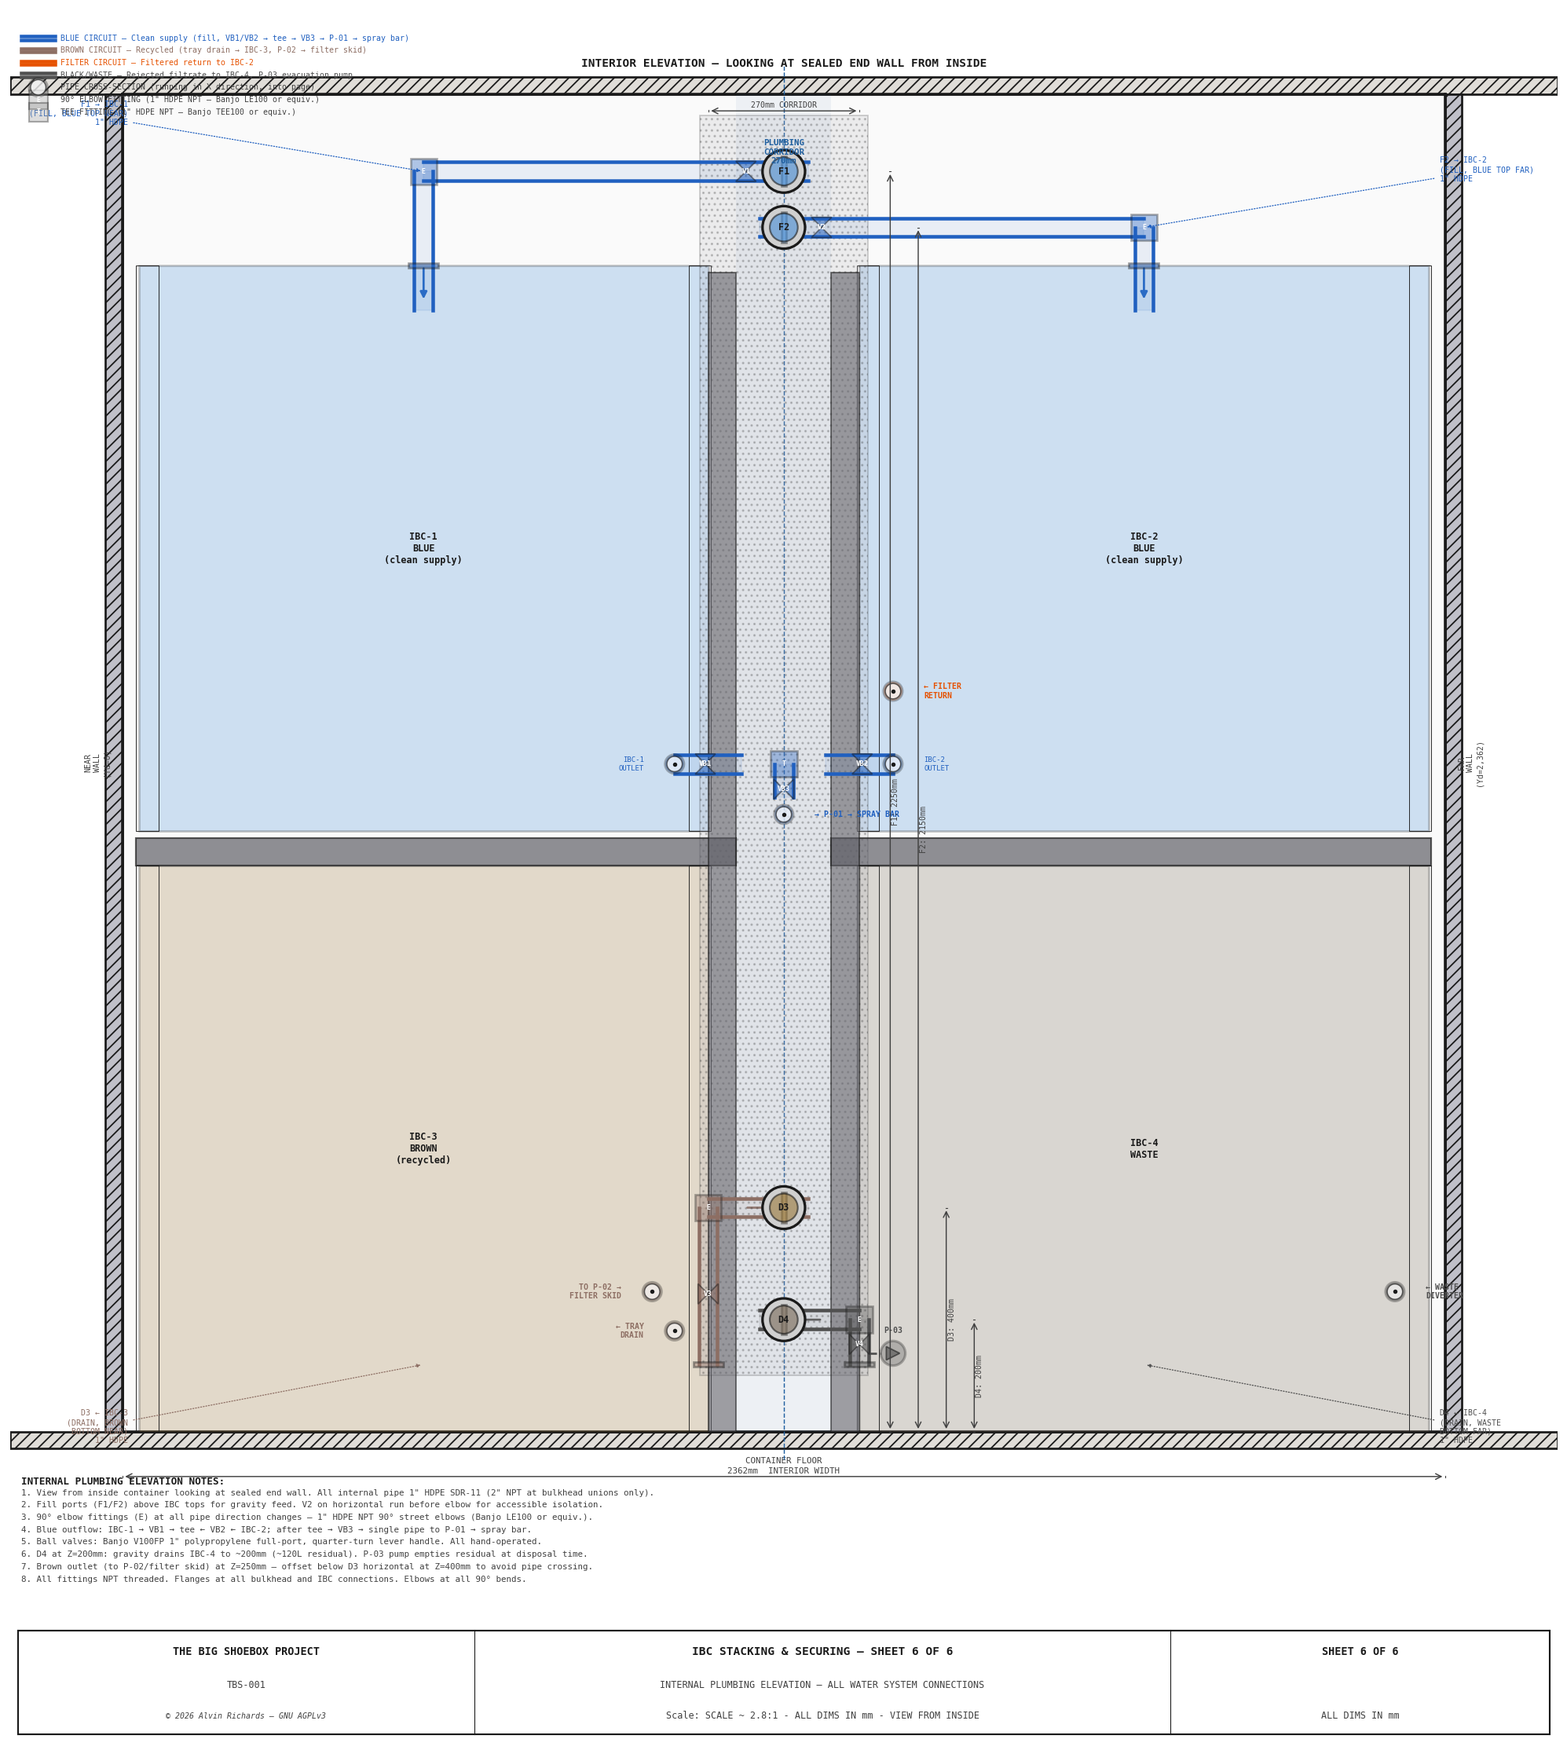
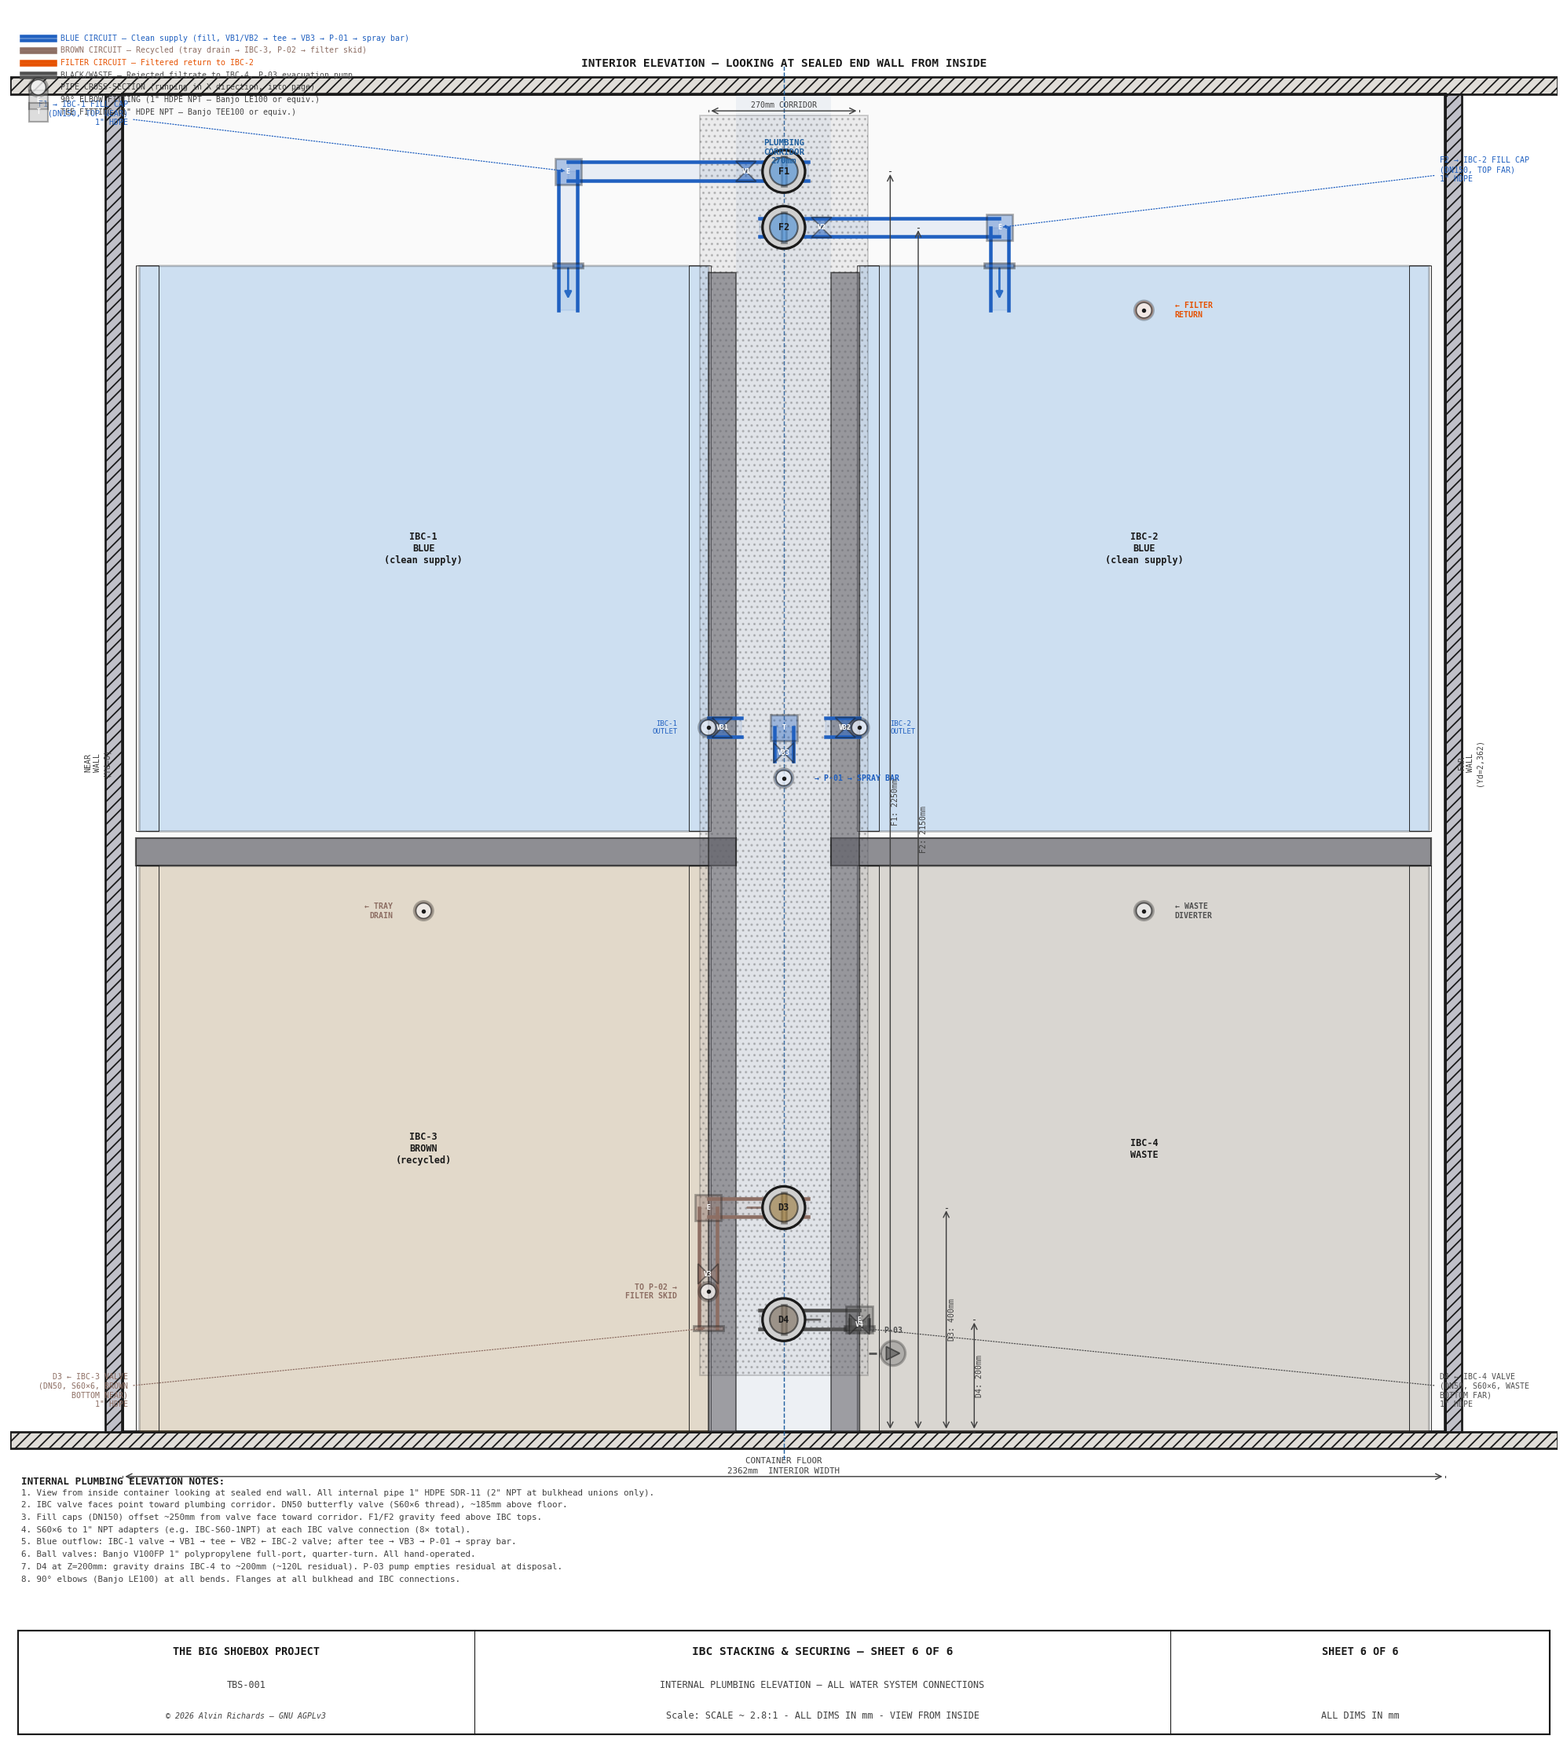
Update IBC plumbing to use actual valve/fill cap positions
Correct all pipe connection points based on real IBC tote specs:
- Fill pipes (F1/F2) drop at DN150 fill cap position (~250mm offset from
  valve face toward corridor), not at IBC center
- Drain connections at DN50 butterfly valve (S60×6 thread), ~185mm above
  floor, on corridor-facing face
- Blue outflow manifold connects at top-tier IBC drain valves
- Brown/waste inlet stubs repositioned to fill cap (top) and valve (bottom)

Add S60×6 to 1" NPT adapters (8×) to shopping list. Update valve specs
from "2" ball valve" to "DN50 butterfly valve (S60×6 thread)" throughout.
Update sheet 5/6 notes with IBC orientation and adapter requirements.

diff --git a/generate_ibc_stacking_diagram.py b/generate_ibc_stacking_diagram.py
@@ -1645,8 +1645,8 @@ def sheet5():
         "INTERNAL PLUMBING PLAN NOTES:",
         "",
         "1. All internal pipe 1\" HDPE SDR-11 (2\" NPT at bulkhead unions only).",
-        "2. Fill pipes (F1, F2): from bulkhead unions through corridor to top-tier Blue IBCs.",
-        "3. Drain pipes (D3, D4): from bottom-tier IBCs through corridor to bulkhead unions.",
+        "2. IBC valve faces point toward corridor. DN50 butterfly valve (S60×6 thread) at each IBC.",
+        "3. S60×6 to 1\" NPT adapters at each IBC valve connection (8× total).",
         "4. Ball valves (Banjo V100FP) at each IBC connection — V1/V2 on horizontal, V3/V4 on branch.",
         f"5. Pipes routed through {CORRIDOR_W}mm plumbing corridor between IBC columns.",
         "6. 90° elbows (Banjo LE100) at all pipe direction changes. Flanges at all connections.",
@@ -1945,15 +1945,21 @@ def sheet6():
     # ── IBC connection heights ───────────────────────────────────────────────
     top_ibc_top = platform_z + FRAME_RHS + MAT_T + IBC_H_600
     fill_conn_z = top_ibc_top - 80   # fill inlet near top of top-tier IBC
-    drain_conn_z = 120   # drain valve height on bottom-tier IBC
+    drain_conn_z = 185   # IBC butterfly valve centerline ~175-200mm above floor
 
     near_ibc_cx = BLUE_IBC_Y + IBC_D / 2   # IBC-1/3 center Yd
     far_ibc_cx  = IBC_FAR_Y + IBC_D / 2    # IBC-2/4 center Yd
 
+    # IBC valve faces point toward corridor. Fill cap is on top, offset
+    # ~250mm from the valve face (front) toward the corridor side.
+    FILL_CAP_OFFSET = 250  # mm from valve face (corridor edge)
+    f1_fill_yd = BLUE_IBC_Y + IBC_D - FILL_CAP_OFFSET   # near IBC fill cap Yd
+    f2_fill_yd = IBC_FAR_Y + FILL_CAP_OFFSET             # far IBC fill cap Yd
+
     # ── F1: Bulkhead → over IBC-1 top → drop into IBC-1 (near, top tier) ───
-    # Fill enters through IBC top opening (gravity feed). F1 at Z=2,250
-    # is above IBC top (2,082), so the horizontal run clears the IBC.
-    f1_drop_yd = near_ibc_cx  # drop point centered over IBC-1 fill opening
+    # Fill enters through IBC fill cap (DN150, offset ~250mm from valve face
+    # toward corridor side). F1 at Z=2,250 is above IBC top (2,082).
+    f1_drop_yd = f1_fill_yd  # drop point at fill cap position (offset from valve face)
     # Horizontal run: bulkhead → over IBC-1 center (entirely above IBC)
     pipe_h(ax, cl_yd + bh_outer_r + 5, f1_drop_yd, EXT_FILL_1_H, C_PIPE_BLUE)
     # V1 on horizontal run, in the corridor
@@ -1971,7 +1977,7 @@ def sheet6():
                 arrowprops=dict(arrowstyle="-|>", color=C_PIPE_BLUE, lw=1.5))
 
     # ── F2: Bulkhead → over IBC-2 top → drop into IBC-2 (far, top tier) ──
-    f2_drop_yd = far_ibc_cx  # drop point centered over IBC-2 fill opening
+    f2_drop_yd = f2_fill_yd  # drop point at fill cap position (offset from valve face)
     # Horizontal run: bulkhead → over IBC-2 center
     pipe_h(ax, cl_yd - bh_outer_r - 5, f2_drop_yd, EXT_FILL_2_H, C_PIPE_BLUE)
     # V2 on horizontal run, in the corridor
@@ -2035,10 +2041,13 @@ def sheet6():
     # ── Blue outflow manifold (X-direction, into the page) ───────────────────
     # Two isolation valves (V-B1, V-B2) — one per IBC outlet — join at tee
     # in corridor, then V-B3 after tee → single pipe to P-01 → spray bar.
-    blue_out_z = platform_z + FRAME_RHS + MAT_T + 120  # low on Blue IBCs
+    # Blue IBCs use their built-in DN50 butterfly valve (S60×6 thread) on the
+    # corridor-facing face, ~185mm above the platform they sit on.
+    top_tier_base = platform_z + FRAME_RHS + MAT_T  # floor of top-tier IBCs
+    blue_out_z = top_tier_base + drain_conn_z  # drain valve height on top-tier
 
-    # IBC-1 outlet (near column) — pipe stub + valve
-    b1_yd = BLUE_IBC_Y + IBC_D - 60
+    # IBC-1 outlet (near column) — at corridor-facing drain valve
+    b1_yd = near_col_r  # valve face points toward corridor
     pipe_stub_x(ax, b1_yd, blue_out_z, C_PIPE_BLUE,
                 "", label_side="left")
     # Horizontal pipe from IBC-1 toward corridor center
@@ -2050,8 +2059,8 @@ def sheet6():
             ha="right", va="center", fontsize=5, color=C_PIPE_BLUE,
             **FONT, zorder=10)
 
-    # IBC-2 outlet (far column) — pipe stub + valve
-    b2_yd = IBC_FAR_Y + 60
+    # IBC-2 outlet (far column) — at corridor-facing drain valve
+    b2_yd = far_col_l  # valve face points toward corridor
     pipe_stub_x(ax, b2_yd, blue_out_z, C_PIPE_BLUE,
                 "", label_side="right")
     # Horizontal pipe from IBC-2 toward corridor center
@@ -2079,45 +2088,50 @@ def sheet6():
             fontweight="bold", **FONT, zorder=10)
 
     # ── Brown IBC-3 inlet ← tray drain (gravity) ────────────────────────────
-    brown_in_z = 180
-    pipe_stub_x(ax, BLUE_IBC_Y + IBC_D - 60, brown_in_z, C_PIPE_BROWN,
+    # Tray drain enters IBC-3 through a top-mounted fitting (fill cap area).
+    # Shown as X-direction pipe stub at top of IBC-3.
+    brown_in_z = IBC_H_600 - 80  # near top of bottom-tier IBC
+    pipe_stub_x(ax, near_ibc_cx, brown_in_z, C_PIPE_BROWN,
                 "← TRAY\nDRAIN", label_side="left")
 
     # ── Brown IBC-3 outlet → P-02 pump → filter skid ────────────────────────
-    # Offset lower to clear D3 horizontal run at Z=400
+    # Uses IBC-3's built-in DN50 butterfly valve at corridor-facing face.
+    # Offset below D3 horizontal run at Z=400 to avoid pipe crossing.
     brown_out_z = 250
-    pipe_stub_x(ax, BLUE_IBC_Y + IBC_D - 100, brown_out_z, C_PIPE_BROWN,
+    pipe_stub_x(ax, near_col_r, brown_out_z, C_PIPE_BROWN,
                 "TO P-02 →\nFILTER SKID", label_side="left")
 
     # ── Filter skid return → IBC-2 (cleaned water returns to supply) ────────
-    filter_ret_z = platform_z + FRAME_RHS + MAT_T + 250
-    pipe_stub_x(ax, IBC_FAR_Y + 60, filter_ret_z, C_PIPE_FILTER,
+    # Returns through top of IBC-2 (fill cap area)
+    filter_ret_z = top_ibc_top - 80  # near top of top-tier far IBC
+    pipe_stub_x(ax, far_ibc_cx, filter_ret_z, C_PIPE_FILTER,
                 "← FILTER\nRETURN", label_side="right")
 
     # ── Waste IBC-4 inlet ← diverter/bypass (rejected filtrate) ─────────────
-    waste_in_z = 250
-    pipe_stub_x(ax, IBC_FAR_Y + IBC_D - 60, waste_in_z, C_PIPE_BLACK,
+    # Enters through IBC-4 fill cap on top
+    waste_in_z = IBC_H_600 - 80  # near top of bottom-tier far IBC
+    pipe_stub_x(ax, far_ibc_cx, waste_in_z, C_PIPE_BLACK,
                 "← WASTE\nDIVERTER", label_side="right")
 
     # ── Pipe labels for bulkhead connections ─────────────────────────────────
-    leader(ax, sx(near_ibc_cx), sy(EXT_FILL_1_H),
+    leader(ax, sx(f1_fill_yd), sy(EXT_FILL_1_H),
            sx(BLUE_IBC_Y - 20), sy(EXT_FILL_1_H + 80),
-           "F1 → IBC-1\n(FILL, BLUE TOP NEAR)\n1\" HDPE",
+           "F1 → IBC-1 FILL CAP\n(DN150, TOP NEAR)\n1\" HDPE",
            color=C_PIPE_BLUE, fs=5.5,
            ha="right", va="bottom", arrow_style="-|>", font=FONT)
-    leader(ax, sx(far_ibc_cx), sy(EXT_FILL_2_H),
+    leader(ax, sx(f2_fill_yd), sy(EXT_FILL_2_H),
            sx(IBC_FAR_Y + IBC_D + 20), sy(EXT_FILL_2_H + 80),
-           "F2 → IBC-2\n(FILL, BLUE TOP FAR)\n1\" HDPE",
+           "F2 → IBC-2 FILL CAP\n(DN150, TOP FAR)\n1\" HDPE",
            color=C_PIPE_BLUE, fs=5.5,
            ha="left", va="bottom", arrow_style="-|>", font=FONT)
-    leader(ax, sx(near_ibc_cx), sy(drain_conn_z),
+    leader(ax, sx(near_col_r), sy(drain_conn_z),
            sx(BLUE_IBC_Y - 20), sy(drain_conn_z - 80),
-           "D3 ← IBC-3\n(DRAIN, BROWN\nBOTTOM NEAR)\n1\" HDPE",
+           "D3 ← IBC-3 VALVE\n(DN50, S60×6, BROWN\nBOTTOM NEAR)\n1\" HDPE",
            color=C_PIPE_BROWN, fs=5.5,
            ha="right", va="top", arrow_style="-|>", font=FONT)
-    leader(ax, sx(far_ibc_cx), sy(drain_conn_z),
+    leader(ax, sx(far_col_l), sy(drain_conn_z),
            sx(IBC_FAR_Y + IBC_D + 20), sy(drain_conn_z - 80),
-           "D4 ← IBC-4\n(DRAIN, WASTE\nBOTTOM FAR)\n1\" HDPE",
+           "D4 ← IBC-4 VALVE\n(DN50, S60×6, WASTE\nBOTTOM FAR)\n1\" HDPE",
            color=C_PIPE_BLACK, fs=5.5,
            ha="left", va="top", arrow_style="-|>", font=FONT)
 
@@ -2203,13 +2217,13 @@ def sheet6():
     notes = [
         "INTERNAL PLUMBING ELEVATION NOTES:",
         "1. View from inside container looking at sealed end wall. All internal pipe 1\" HDPE SDR-11 (2\" NPT at bulkhead unions only).",
-        "2. Fill ports (F1/F2) above IBC tops for gravity feed. V2 on horizontal run before elbow for accessible isolation.",
-        "3. 90° elbow fittings (E) at all pipe direction changes — 1\" HDPE NPT 90° street elbows (Banjo LE100 or equiv.).",
-        "4. Blue outflow: IBC-1 → VB1 → tee ← VB2 ← IBC-2; after tee → VB3 → single pipe to P-01 → spray bar.",
-        "5. Ball valves: Banjo V100FP 1\" polypropylene full-port, quarter-turn lever handle. All hand-operated.",
-        "6. D4 at Z=200mm: gravity drains IBC-4 to ~200mm (~120L residual). P-03 pump empties residual at disposal time.",
-        "7. Brown outlet (to P-02/filter skid) at Z=250mm — offset below D3 horizontal at Z=400mm to avoid pipe crossing.",
-        "8. All fittings NPT threaded. Flanges at all bulkhead and IBC connections. Elbows at all 90° bends.",
+        "2. IBC valve faces point toward plumbing corridor. DN50 butterfly valve (S60×6 thread), ~185mm above floor.",
+        "3. Fill caps (DN150) offset ~250mm from valve face toward corridor. F1/F2 gravity feed above IBC tops.",
+        "4. S60×6 to 1\" NPT adapters (e.g. IBC-S60-1NPT) at each IBC valve connection (8× total).",
+        "5. Blue outflow: IBC-1 valve → VB1 → tee ← VB2 ← IBC-2 valve; after tee → VB3 → P-01 → spray bar.",
+        "6. Ball valves: Banjo V100FP 1\" polypropylene full-port, quarter-turn. All hand-operated.",
+        "7. D4 at Z=200mm: gravity drains IBC-4 to ~200mm (~120L residual). P-03 pump empties residual at disposal.",
+        "8. 90° elbows (Banjo LE100) at all bends. Flanges at all bulkhead and IBC connections.",
     ]
     for i, line in enumerate(notes):
         bold = i == 0

diff --git a/water-system-report.md b/water-system-report.md
@@ -160,7 +160,7 @@ FROM 3W-DV-02 (direct bypass — heavily contaminated first rinse, if needed)
    TRANSPORT to licensed liquid waste disposal facility
 ```
 
-- IBC-4 is a standard 600L HDPE cage tote with 2" ball valve, identical frame to IBC-1 through IBC-3
+- IBC-4 is a standard 600L HDPE cage tote with DN50 butterfly valve (S60×6 thread), identical frame to IBC-1 through IBC-3
 - IBC-4 sits in the right end zone in a 2x2 stack: bottom-far position (Yd=1,316–2,332)
 - Cap sealed before transport; label contents, date, location, UN numbers for ferricyanide/iron compounds
 - Drained remotely via external 2" NPT bulkhead fitting with camlock on the container end wall centerline (Yd=1,181mm, Z=200mm) — no need to open cargo doors
@@ -319,7 +319,7 @@ This allows remote filling (from water bowser or tanker) and draining (IBC-3/IBC
 
 | Item | Spec | Qty | Supplier | Unit price | Total |
 |------|------|-----|---------|-----------|-------|
-| IBC tote 600L, food-grade, used/rinsed | HDPE cage tote, 2" ball valve | 4 | [Container Exchanger — CA listings](https://containerexchanger.com/geo-sale-ads/us-ca/bulk-containers/ibc-totes-for-sale) | $80–$150 | **$320–$600** |
+| IBC tote 600L, food-grade, used/rinsed | HDPE cage tote, DN50 butterfly valve (S60×6 thread), fill cap DN150 | 4 | [Container Exchanger — CA listings](https://containerexchanger.com/geo-sale-ads/us-ca/bulk-containers/ibc-totes-for-sale) | $80–$150 | **$320–$600** |
 | 2" NPT bulkhead fitting (304 SS) | External fill/drain port, welded through container wall | 4 | [McMaster-Carr](https://www.mcmaster.com) · Grainger | $25–$40 | **$100–$160** |
 
 **Storage subtotal: ~$420–$760**
@@ -357,9 +357,10 @@ This allows remote filling (from water bowser or tanker) and draining (IBC-3/IBC
 | 1" NPT 90° elbow (Banjo LE100) | HDPE/polypropylene 90° street elbow. 4× end-wall pipe bends (F1/F2/D3/D4) plus system elbows | 14 | [Amazon — Banjo LE100](https://www.amazon.com/Banjo-LE100-Polypropylene-90-Degree-Elbow/dp/B003CF2FWI) · Home Depot · Ferguson | $3–$5 | **$42–$70** |
 | 1" NPT equal tee (Banjo TEE100) | Polypropylene equal tee. 1× Blue outflow manifold (VB1/VB2 merge) plus system tees | 8 | [Amazon — Banjo TEE100](https://www.amazon.com/Banjo-TEE100-Polypropylene-Pipe-Fitting/dp/B003CF2FI2) · Home Depot · Ferguson | $4–$6 | **$35–$50** |
 | 1" NPT unions | For maintenance disconnects | 6 | Ferguson / Amazon | $6–$10 | **$40–$60** |
+| S60×6 to 1" NPT adapter | IBC DN50 butterfly valve to 1" HDPE pipe. Polypropylene, S60×6 coarse thread male × 1" NPT female | 8 | [Amazon — IBC S60×6 adapter](https://www.amazon.com/s?k=IBC+S60x6+1+NPT+adapter) · [US Plastic Corp](https://www.usplastic.com) · Grainger | $8–$15 | **$64–$120** |
 | Thread seal tape (PTFE) | 1/2" wide, 260" roll | 4 | Home Depot | $2 | **$8** |
 
-**Valves & fittings subtotal: ~$310–$474**
+**Valves & fittings subtotal: ~$374–$594**
 
 ### 8.5 Pipe
 
@@ -417,12 +418,12 @@ This allows remote filling (from water bowser or tanker) and draining (IBC-3/IBC
 | Water storage (4x IBC totes + bulkhead fittings) | $420 | $760 |
 | Pumps and accumulator (P-01, P-02, P-03) | $230 | $265 |
 | Filter skid (housings + cartridges) | $265 | $370 |
-| Valves and fittings | $310 | $474 |
+| Valves and fittings (incl. S60×6 adapters) | $374 | $594 |
 | Pipe | $100 | $140 |
 | Processing tray (304 SS, fabricated) | $1,177 | $1,857 |
 | Electrical | $50 | $50 |
 | Processing consumables | $231 | $278 |
-| **TOTAL** | **$2,783** | **$4,189** |
+| **TOTAL** | **$2,847** | **$4,309** |
 
 *Used IBC totes drive significant savings vs. new. Ferguson Plumbing Supply and Grainger may offer better pricing on bulk pipe and fittings than retail stores — obtain quotes before ordering.*
 

diff --git a/engineering-diagrams.md b/engineering-diagrams.md
@@ -279,10 +279,10 @@ Source report: [Equipment Layout](equipment-layout-report.md) §5,
 **Sheet 4 — External plumbing panel elevation: View from outside the container sealed end wall. 4× 2" NPT bulkhead unions stacked vertically on container centerline — fill ports (Blue IBC-1 at 2,250mm, Blue IBC-2 at 2,150mm) above IBC tops for gravity feed, drain ports (Brown IBC-3 at 400mm, Waste IBC-4 at 200mm) at bottom. Reinforcing plate, camlock fittings, height dimensions**
 ![TBS-001 IBC Stacking — Sheet 4: External Plumbing Panel Elevation](assets/ibc-stacking-sheet4.png)
 
-**Sheet 5 — Internal plumbing plan view: Looking down at IBC zone showing two IBC columns with 270mm central plumbing corridor. Pipe runs from end-wall bulkhead unions through corridor to each IBC. Ball valves (V1–V4) at each IBC connection. All pipes 2" UPVC schedule 40**
+**Sheet 5 — Internal plumbing plan view: Looking down at IBC zone showing two IBC columns with 270mm central plumbing corridor. IBC valve faces point toward corridor (DN50 butterfly valve, S60×6 thread). Pipe runs from end-wall bulkhead unions through corridor to each IBC via S60×6 to 1" NPT adapters. Ball valves (V1–V4) at each IBC connection. All internal pipes 1" HDPE SDR-11**
 ![TBS-001 IBC Stacking — Sheet 5: Internal Plumbing Plan View](assets/ibc-stacking-sheet5.png)
 
-**Sheet 6 — Internal plumbing elevation: View from inside the container looking at the sealed end wall. Shows 4 bulkhead unions on centerline with pipe routing to flanking IBCs. Fill pipes (F1/F2) route horizontally from upper bulkheads through corridor, then drop vertically into top-tier Blue IBCs. Drain pipes (D3/D4) rise from bottom-tier IBC valves to bulkhead height, then route horizontally to wall. Ball valves V1–V4 on each vertical run**
+**Sheet 6 — Internal plumbing elevation: View from inside the container looking at the sealed end wall. Shows 4 bulkhead unions on centerline with pipe routing to flanking IBCs. Fill pipes (F1/F2) route horizontally from upper bulkheads through corridor, drop through IBC fill caps (DN150, offset ~250mm from valve face). Drain pipes (D3/D4) connect at IBC DN50 butterfly valves (~185mm above floor, corridor-facing), rise to bulkhead height, route horizontally to wall. Blue outflow manifold (VB1/VB2 → tee → VB3 → P-01). P-03 waste evacuation pump on D4**
 ![TBS-001 IBC Stacking — Sheet 6: Internal Plumbing Elevation](assets/ibc-stacking-sheet6.png)
 
 ---
